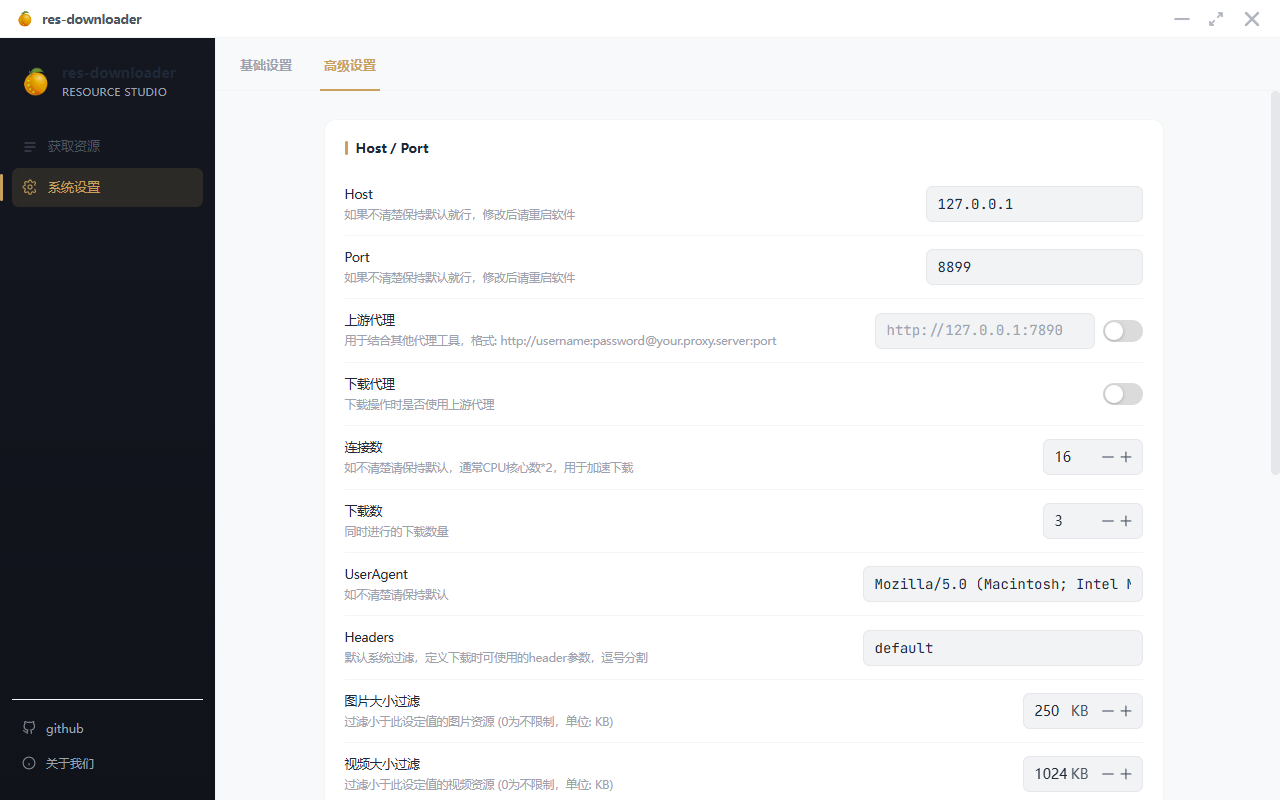
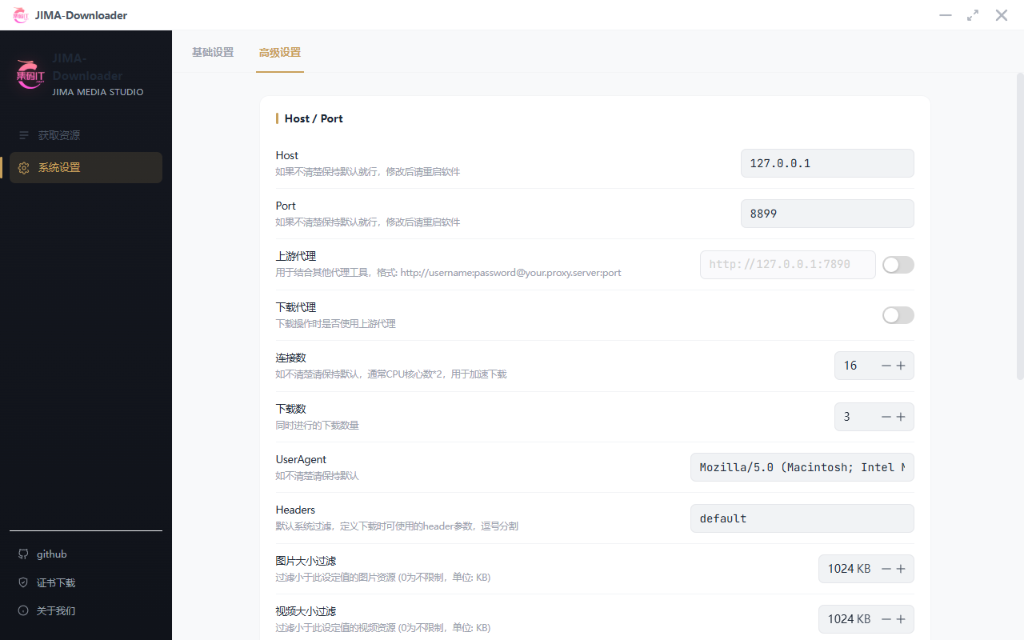
docs: 同步更新 JIMA-Downloader 文档说明与界面演示截图

diff --git a/README.md b/README.md
@@ -1,7 +1,7 @@
 <div align="center">
 
-<a href="https://github.com/icpjimait/res-downloader"><img src="docs/images/logo.png" width="120"/></a>
-<h1>res-downloader (Enhanced Edition)</h1>
+<a href="https://github.com/icpjimait/res-downloader"><img src="docs/images/logo.png" width="120" style="filter: drop-shadow(0 4px 12px rgba(255,83,118,0.3));"/></a>
+<h1>JIMA-Downloader (Enhanced Edition)</h1>
 <p>基于 Go + Wails + Vue 3 的高性能、现代化跨平台网络资源嗅探与下载神器</p>
 
 [![GitHub stars](https://img.shields.io/github/stars/icpjimait/res-downloader)](https://github.com/icpjimait/res-downloader/stargazers)
@@ -15,35 +15,44 @@
 ---
 
 > 💡 **特别说明（Enhanced Edition 二次开发版本）**  
-> 本项目基于原版开源项目 [putyy/res-downloader](https://github.com/putyy/res-downloader) 进行深度二次开发与功能增强。  
-> 在完整保留原版全部嗅探与下载能力的基础上，重点对用户体验、多平台打包和系统级交互进行了深度优化与魔改增强：
-> - 🚀 **多平台云端自动化构建**：接入 GitHub Actions CI/CD 流水线，一键自动编译发布 Windows、macOS (Universal M系列/Intel) 以及 Linux 安装包。
-> - 📌 **系统托盘后台运行**：点击窗口关闭按钮不退出，自动最小化缩至系统通知区域托盘，支持左键唤起与右键托盘快捷菜单。
-> - 🛡 **单实例防多开限制**：防止重复启动导致代理端口冲突，二次打开时自动唤起并置顶已有主窗口并友好提示。
+> 本项目由 **集码IT (JiMaIT)** 基于原版开源项目 [putyy/res-downloader](https://github.com/putyy/res-downloader) 进行深度二次开发与功能增强。  
+> 在完整保留原版全部嗅探与下载能力的基础上，重点对用户体验、嗅探生态、多平台打包和系统级交互进行了深度优化与魔改增强：
+> - ⚡ **快手 / B站 / 抖音 / 视频号全生态深度解析**：内置各平台专属插件，自动拦截 API 解析完整标题、作者、封面与音视频直链。
+> - 🔍 **顶部常驻全局即时搜索**：无需弹窗即可直接在操作栏进行描述、URL 及域名的实时模糊过滤。
+> - 🎛 **更多操作下拉菜单 UI**：批量操作采用跟手原生下拉菜单（`NDropdown`），告别臃肿弹窗。
+> - 🎥 **视频全屏沉浸播放与「直接下载」**：支持边看边直接发起下载，全屏模式支持自适应居中与等比缩放。
 > - 📂 **保存路径文件追踪定位**：在保存路径中点击“打开目录”时，直接在操作系统文件管理器中**自动打开并高亮选中**目标文件。
-> - 🔍 **音视频预览弹窗直接下载**：预览音视频时支持在模态框内一键直接发起下载，实时联动任务队列与已下载状态。
+> - 📌 **系统托盘后台运行**：点击窗口关闭按钮不退出，自动最小化缩至系统通知区域托盘，支持快捷唤起。
+> - 🛡 **单实例防多开限制**：防止重复启动导致代理端口冲突，二次打开时自动唤起并置顶已有主窗口。
+> - 🚀 **多平台云端自动化构建**：接入 GitHub Actions CI/CD 流水线，一键自动编译发布 Windows、macOS (Universal M系列/Intel) 以及 Linux 安装包。
 
 ---
 
 ## 🖼 界面预览
 
-### 1. 软件主界面与保存路径定位
-> 嗅探捕获多媒体资源列表，悬浮查看完整保存路径并支持一键在文件管理器中**定位高亮选中目标文件**：
+### 1. 软件主界面与常驻搜索 / 批量操作
+> 嗅探捕获多媒体资源列表，支持顶部常驻全局即时搜索、更多操作原生下拉菜单、以及保存路径文件管理器**自动定位高亮选中**：
 <div align="center">
-  <img src="docs/images/preview-list-path.png" width="90%" alt="主界面与路径追踪"/>
+  <img src="docs/images/preview-main.png" width="92%" alt="主界面与下拉菜单"/>
 </div>
 
 ### 2. 视频实时预览与「直接下载」
-> 预览音视频播放弹窗，右上角集成一键下载按钮，支持边预览边直接发起下载：
+> 预览音视频播放弹窗，右上角集成「直接下载」按钮，支持边预览边直接发起下载并实时联动任务状态：
 <div align="center">
-  <img src="docs/images/preview-video-download.png" width="90%" alt="视频预览与直接下载"/>
+  <img src="docs/images/preview-video-download.png" width="92%" alt="视频预览与直接下载"/>
 </div>
 
-### 3. 基础设置与高级配置
-> 支持保存目录配置、深浅主题切换、多语言切换、网络代理与并发连接数精细调优：
+### 3. 沉浸式居中全屏播放
+> 视频全屏模式支持自适应画面比例（`object-fit: contain`），水平垂直绝对居中，带来沉浸式观影与审核体验：
 <div align="center">
-  <img src="docs/images/preview-setting-basic.png" width="48%" alt="基础设置"/>
+  <img src="docs/images/preview-video-fullscreen.png" width="92%" alt="全屏沉浸播放"/>
+</div>
+
+### 4. 系统设置与域名高级规则
+> 支持保存目录配置、深浅主题切换、智能置灰禁用联动、网络代理与并发连接数精细调优：
+<div align="center">
   <img src="docs/images/preview-setting-advance.png" width="48%" alt="高级设置"/>
+  <img src="docs/images/preview-setting-rules.png" width="48%" alt="域名规则"/>
 </div>
 
 ---
@@ -54,8 +63,13 @@
 - 🖥 **全平台支持**：全面支持 **Windows / macOS (Apple Silicon & Intel) / Linux**。
 - 📦 **多平台自动构建**：集成 GitHub Actions 云端流水线，多系统安装包自动化编译与发布。
 - 🌐 **全类型资源嗅探**：支持视频、音频、图片、m3u8 分片、直播流等多种格式自动捕获。
-- 📱 **广泛平台兼容**：支持微信视频号（含自动解密）、小程序、抖音、快手、小红书、酷狗、QQ音乐等主流平台。
-- 🔍 **智能预览与直接下载**：支持音视频实时预览，预览弹窗内支持一键直接发起下载并实时联动进度。
+- 📱 **广泛平台兼容**：
+  - **快手（Kuaishou）**：GraphQL / REST API 递归解析，自动获取完整视频标题描述、作者与封面。
+  - **哔哩哔哩（B站）**：视频/音频/清晰度识别、音画双轨同频有声预览、FFmpeg 自动混流。
+  - **抖音（Douyin）**：自动提取高画质无水印直链与视频描述。
+  - **微信视频号**：自动拦截解密密钥，一键视频解密。
+  - **小红书、QQ音乐、酷狗** 等主流平台全面支持。
+- 🔍 **全局即时搜索**：常驻顶部输入框，毫秒级即时模糊搜索。
 - 📂 **保存路径文件追踪**：点击保存目录按钮，直接在系统资源管理器中**自动打开并高亮选中目标文件**。
 - 🛡 **单实例运行限制**：避免多开造成端口冲突，重复打开时**自动唤起置顶已有主窗口并友好提示**。
 - 📌 **系统托盘后台运行**：点击关闭按钮可最小化至右下角通知区域托盘，支持左键唤起与右键托盘菜单。
@@ -71,9 +85,9 @@
 
 | 操作系统 | 推荐下载文件 | 说明 |
 | :--- | :--- | :--- |
-| **Windows** | `res-downloader-windows-amd64.zip` | 解压后双击 `res-downloader.exe` 即可使用 |
-| **macOS** | `res-downloader-macos-universal.zip` | 通用版本，兼容 M系列芯片 (M1/M2/M3) 及 Intel 芯片 |
-| **Linux** | `res-downloader-linux-amd64.tar.gz` | Linux 64位二进制包 |
+| **Windows** | `JIMA-Downloader-windows-amd64.zip` | 解压后双击 `JIMA-Downloader.exe` 即可使用 |
+| **macOS** | `JIMA-Downloader-macos-universal.zip` | 通用版本，兼容 M系列芯片 (M1/M2/M3/M4) 及 Intel 芯片 |
+| **Linux** | `JIMA-Downloader-linux-amd64.tar.gz` | Linux 64位二进制包 |
 
 ---
 
@@ -109,9 +123,10 @@ wails build -platform darwin/universal
 
 ## 🤝 参与贡献与致谢
 
-欢迎提交 Issue 和 Pull Request！提交 PR 前请阅读 [CONTRIBUTING.md](CONTRIBUTING.md)。
+欢迎提交 Issue 和 Pull Request！
 
 * 原版项目：[putyy/res-downloader](https://github.com/putyy/res-downloader)
+* 二次开发维护：[集码IT (JiMaIT)](https://github.com/icpjimait)
 * 感谢原作者与所有开源社区贡献者的辛勤付出。
 
 ---

diff --git a/docs/readme.md b/docs/readme.md
@@ -1,7 +1,7 @@
 <div align="center">
 
-<a href="https://github.com/icpjimait/res-downloader"><img src="images/logo.png" width="120"/></a>
-<h1>res-downloader (Enhanced Edition)</h1>
+<a href="https://github.com/icpjimait/res-downloader"><img src="images/logo.png" width="120" style="filter: drop-shadow(0 4px 12px rgba(255,83,118,0.3));"/></a>
+<h1>JIMA-Downloader (Enhanced Edition)</h1>
 <p>基于 Go + Wails + Vue 3 的高性能、现代化跨平台网络资源嗅探与下载神器</p>
 
 [![GitHub stars](https://img.shields.io/github/stars/icpjimait/res-downloader)](https://github.com/icpjimait/res-downloader/stargazers)
@@ -15,35 +15,44 @@
 ---
 
 > 💡 **特别说明（Enhanced Edition 二次开发版本）**  
-> 本项目基于原版开源项目 [putyy/res-downloader](https://github.com/putyy/res-downloader) 进行深度二次开发与功能增强。  
-> 在完整保留原版全部嗅探与下载能力的基础上，重点对用户体验、多平台打包和系统级交互进行了深度优化与魔改增强：
-> - 🚀 **多平台云端自动化构建**：接入 GitHub Actions CI/CD 流水线，一键自动编译发布 Windows、macOS (Universal M系列/Intel) 以及 Linux 安装包。
-> - 📌 **系统托盘后台运行**：点击窗口关闭按钮不退出，自动最小化缩至系统通知区域托盘，支持左键唤起与右键托盘快捷菜单。
-> - 🛡 **单实例防多开限制**：防止重复启动导致代理端口冲突，二次打开时自动唤起并置顶已有主窗口并友好提示。
+> 本项目由 **集码IT (JiMaIT)** 基于原版开源项目 [putyy/res-downloader](https://github.com/putyy/res-downloader) 进行深度二次开发与功能增强。  
+> 在完整保留原版全部嗅探与下载能力的基础上，重点对用户体验、嗅探生态、多平台打包和系统级交互进行了深度优化与魔改增强：
+> - ⚡ **快手 / B站 / 抖音 / 视频号全生态深度解析**：内置各平台专属插件，自动拦截 API 解析完整标题、作者、封面与音视频直链。
+> - 🔍 **顶部常驻全局即时搜索**：无需弹窗即可直接在操作栏进行描述、URL 及域名的实时模糊过滤。
+> - 🎛 **更多操作下拉菜单 UI**：批量操作采用跟手原生下拉菜单（`NDropdown`），告别臃肿弹窗。
+> - 🎥 **视频全屏沉浸播放与「直接下载」**：支持边看边直接发起下载，全屏模式支持自适应居中与等比缩放。
 > - 📂 **保存路径文件追踪定位**：在保存路径中点击“打开目录”时，直接在操作系统文件管理器中**自动打开并高亮选中**目标文件。
-> - 🔍 **音视频预览弹窗直接下载**：预览音视频时支持在模态框内一键直接发起下载，实时联动任务队列与已下载状态。
+> - 📌 **系统托盘后台运行**：点击窗口关闭按钮不退出，自动最小化缩至系统通知区域托盘，支持快捷唤起。
+> - 🛡 **单实例防多开限制**：防止重复启动导致代理端口冲突，二次打开时自动唤起并置顶已有主窗口。
+> - 🚀 **多平台云端自动化构建**：接入 GitHub Actions CI/CD 流水线，一键自动编译发布 Windows、macOS (Universal M系列/Intel) 以及 Linux 安装包。
 
 ---
 
 ## 🖼 界面预览
 
-### 1. 软件主界面与保存路径定位
-> 嗅探捕获多媒体资源列表，悬浮查看完整保存路径并支持一键在文件管理器中**定位高亮选中目标文件**：
+### 1. 软件主界面与常驻搜索 / 批量操作
+> 嗅探捕获多媒体资源列表，支持顶部常驻全局即时搜索、更多操作原生下拉菜单、以及保存路径文件管理器**自动定位高亮选中**：
 <div align="center">
-  <img src="images/preview-list-path.png" width="90%" alt="主界面与路径追踪"/>
+  <img src="images/preview-main.png" width="92%" alt="主界面与下拉菜单"/>
 </div>
 
 ### 2. 视频实时预览与「直接下载」
-> 预览音视频播放弹窗，右上角集成一键下载按钮，支持边预览边直接发起下载：
+> 预览音视频播放弹窗，右上角集成「直接下载」按钮，支持边预览边直接发起下载并实时联动任务状态：
 <div align="center">
-  <img src="images/preview-video-download.png" width="90%" alt="视频预览与直接下载"/>
+  <img src="images/preview-video-download.png" width="92%" alt="视频预览与直接下载"/>
 </div>
 
-### 3. 基础设置与高级配置
-> 支持保存目录配置、深浅主题切换、多语言切换、网络代理与并发连接数精细调优：
+### 3. 沉浸式居中全屏播放
+> 视频全屏模式支持自适应画面比例（`object-fit: contain`），水平垂直绝对居中，带来沉浸式观影与审核体验：
 <div align="center">
-  <img src="images/preview-setting-basic.png" width="48%" alt="基础设置"/>
+  <img src="images/preview-video-fullscreen.png" width="92%" alt="全屏沉浸播放"/>
+</div>
+
+### 4. 系统设置与域名高级规则
+> 支持保存目录配置、深浅主题切换、智能置灰禁用联动、网络代理与并发连接数精细调优：
+<div align="center">
   <img src="images/preview-setting-advance.png" width="48%" alt="高级设置"/>
+  <img src="images/preview-setting-rules.png" width="48%" alt="域名规则"/>
 </div>
 
 ---
@@ -54,8 +63,13 @@
 - 🖥 **全平台支持**：全面支持 **Windows / macOS (Apple Silicon & Intel) / Linux**。
 - 📦 **多平台自动构建**：集成 GitHub Actions 云端流水线，多系统安装包自动化编译与发布。
 - 🌐 **全类型资源嗅探**：支持视频、音频、图片、m3u8 分片、直播流等多种格式自动捕获。
-- 📱 **广泛平台兼容**：支持微信视频号（含自动解密）、小程序、抖音、快手、小红书、酷狗、QQ音乐等主流平台。
-- 🔍 **智能预览与直接下载**：支持音视频实时预览，预览弹窗内支持一键直接发起下载并实时联动进度。
+- 📱 **广泛平台兼容**：
+  - **快手（Kuaishou）**：GraphQL / REST API 递归解析，自动获取完整视频标题描述、作者与封面。
+  - **哔哩哔哩（B站）**：视频/音频/清晰度识别、音画双轨同频有声预览、FFmpeg 自动混流。
+  - **抖音（Douyin）**：自动提取高画质无水印直链与视频描述。
+  - **微信视频号**：自动拦截解密密钥，一键视频解密。
+  - **小红书、QQ音乐、酷狗** 等主流平台全面支持。
+- 🔍 **全局即时搜索**：常驻顶部输入框，毫秒级即时模糊搜索。
 - 📂 **保存路径文件追踪**：点击保存目录按钮，直接在系统资源管理器中**自动打开并高亮选中目标文件**。
 - 🛡 **单实例运行限制**：避免多开造成端口冲突，重复打开时**自动唤起置顶已有主窗口并友好提示**。
 - 📌 **系统托盘后台运行**：点击关闭按钮可最小化至右下角通知区域托盘，支持左键唤起与右键托盘菜单。
@@ -71,9 +85,9 @@
 
 | 操作系统 | 推荐下载文件 | 说明 |
 | :--- | :--- | :--- |
-| **Windows** | `res-downloader-windows-amd64.zip` | 解压后双击 `res-downloader.exe` 即可使用 |
-| **macOS** | `res-downloader-macos-universal.zip` | 通用版本，兼容 M系列芯片 (M1/M2/M3) 及 Intel 芯片 |
-| **Linux** | `res-downloader-linux-amd64.tar.gz` | Linux 64位二进制包 |
+| **Windows** | `JIMA-Downloader-windows-amd64.zip` | 解压后双击 `JIMA-Downloader.exe` 即可使用 |
+| **macOS** | `JIMA-Downloader-macos-universal.zip` | 通用版本，兼容 M系列芯片 (M1/M2/M3/M4) 及 Intel 芯片 |
+| **Linux** | `JIMA-Downloader-linux-amd64.tar.gz` | Linux 64位二进制包 |
 
 ---
 
@@ -109,9 +123,10 @@ wails build -platform darwin/universal
 
 ## 🤝 参与贡献与致谢
 
-欢迎提交 Issue 和 Pull Request！提交 PR 前请阅读 [CONTRIBUTING.md](../CONTRIBUTING.md)。
+欢迎提交 Issue 和 Pull Request！
 
 * 原版项目：[putyy/res-downloader](https://github.com/putyy/res-downloader)
+* 二次开发维护：[集码IT (JiMaIT)](https://github.com/icpjimait)
 * 感谢原作者与所有开源社区贡献者的辛勤付出。
 
 ---

diff --git a/docs/more.md b/docs/more.md
@@ -1,36 +1,42 @@
-## 1. 系统托盘与后台运行
-- 点击窗口右上角的关闭按钮 `X`，程序将保持嗅探与下载任务继续运行，并**自动最小化至右下角系统托盘**。
-- **左键单击 / 双击托盘图标**：随时恢复并置顶主界面。
-- **右键托盘图标**：弹出菜单，支持快速「显示主窗口」或彻底「退出程序」。
+## 1. 全局实时搜索与类型筛选
+- **常驻全局搜索**：顶部操作栏常驻即时搜索输入框，输入关键字实时对“描述”、“URL 链接”和“域名”进行毫秒级模糊匹配。
+- **类型快速筛选**：点击顶部类型标签快速筛选视频、音频、图片、m3u8、直播流等分类。
+- **清空列表**：支持一键清空列表或记住选择。  
+![](images/preview-main.png ':size=80%')
 
 ---
 
-## 2. 单实例运行保护
-- 软件内置了多实例互斥保护机制，彻底避免因多开导致的本地代理端口冲突。
-- 当软件已在运行（包括隐藏在托盘时），再次双击运行程序会自动**唤醒并置顶已有窗口**，并提示“程序已在运行中”。
+## 2. 批量操作下拉菜单
+- 顶部“批量下载”右侧设有跟手下拉菜单（`NDropdown`），支持：
+  - **取消下载**：批量取消选中的下载任务
+  - **批量导出**：导出所选资源的数据 JSON
+  - **批量导入**：支持导入外部数据继续下载
+  - **导出链接**：一键提取并导出选中的 URL 列表
 
 ---
 
-## 3. 类型筛选与清空列表
-- 当资源列表过多时，可以通过顶部类型标签快速筛选视频、音频、图片、直播流等。
-- 支持一键清空列表，以便针对特定页面进行定向抓取。  
-![more-1.png](images/more-1.png ':size=30%')
+## 3. 视频预览、直接下载与全屏播放
+- 点击列表中任一视频资源旁边的「▶ 预览」按钮即可弹出播放模态框。
+- **边看边下**：预览弹窗右上角提供「直接下载」按钮，无需关闭弹窗即可直接加入下载队列。
+- **居中全屏**：支持进入全屏沉浸播放，画面按比例自适应居中（`object-fit: contain`），无变形失真。  
+![](images/preview-video-download.png ':size=70%')  
+![](images/preview-video-fullscreen.png ':size=70%')
 
 ---
 
-## 4. 批量下载与批量导入导出
-- 勾选多条资源后可使用底部批量操作栏进行批量下载、批量取消或批量导出。  
-![more-2.png](images/more-2.png ':size=30%')
+## 4. 系统托盘与单实例保护
+- **系统托盘后台运行**：点击窗口右上角 `X` 关闭按钮，程序自动最小化至右下角系统托盘，继续保持嗅探与下载任务。
+- **单实例运行保护**：避免重复多开导致本地端口冲突，二次打开时自动**唤醒并置顶已有主窗口**。
 
 ---
 
 ## 5. 微信视频号解密
-- 对于部分加密格式的视频号资源，在嗅探到密钥后，可点击“视频解密”按钮自动调用解密算法生成可正常播放的 MP4 文件。  
-![more-3.png](images/more-3.png ':size=30%')
+- 对于部分加密格式的视频号资源，在嗅探到密钥后，可点击“视频解密”按钮自动调用解密算法生成可正常播放的 MP4 文件。
 
 ---
 
-## 6. 系统设置说明
-!> 修改配置后记得点击保存，部分底层配置重启后生效。  
-![](images/preview-setting-basic.png ':size=60%')  
-![](images/preview-setting-advance.png ':size=60%')
+## 6. 系统设置与域名高级规则
+- 支持自定义下载目录、深浅主题切换、多语言切换。
+- 支持上游代理配置（开关联动智能置灰）、并发连接与任务数调优、以及域名规则灵活定义。  
+![](images/preview-setting-advance.png ':size=48%')  
+![](images/preview-setting-rules.png ':size=48%')

diff --git a/docs/getting-started.md b/docs/getting-started.md
@@ -5,9 +5,9 @@
 
 | 系统 | 安装包文件 | 说明 |
 | :--- | :--- | :--- |
-| **Windows** | `res-downloader-windows-amd64.zip` | 解压即用（免安装） |
-| **macOS** | `res-downloader-macos-universal.zip` | 通用版本（支持 M1/M2/M3 及 Intel） |
-| **Linux** | `res-downloader-linux-amd64.tar.gz` | Linux 64位二进制包 |
+| **Windows** | `JIMA-Downloader-windows-amd64.zip` | 解压即用（免安装） |
+| **macOS** | `JIMA-Downloader-macos-universal.zip` | 通用版本（支持 M1/M2/M3/M4 及 Intel） |
+| **Linux** | `JIMA-Downloader-linux-amd64.tar.gz` | Linux 64位二进制包 |
 
 ---
 
@@ -18,10 +18,10 @@
 2. **开启抓取**：
    - 打开软件后，点击左上角“开启抓取”。
 3. **嗅探资源**：
-   - 打开要捕获的资源来源，如：微信视频号、网页、小程序、短视频平台等。
+   - 打开要捕获的资源来源，如：微信视频号、网页、小程序、快手、抖音、B站、短视频平台等。
 4. **下载与管理**：
-   - 软件首页列表中会自动显示捕获到的资源。
-   - 可直接点击“下载”或在“预览”窗口中边看边下。
+   - 软件首页列表中会自动显示捕获到的资源及完整标题描述。
+   - 可直接点击“下载”或在“预览”窗口中边看边下，支持全屏沉浸播放。
    - 下载完成后，点击保存路径旁的文件夹图标，可直接**打开所在目录并自动高亮选中该文件**。
 
 ---
@@ -29,4 +29,4 @@
 !> **Windows 注意事项**：若安全软件拦截，请点击允许；点击右上角关闭按钮默认缩小至**右下角托盘**。  
 !> **macOS 注意事项**：如果无法正常拦截，请在系统设置中检查并允许网络代理与防火墙权限。
 
-![](images/preview-list-path.png ':size=70%')
+![](images/preview-main.png ':size=90%')

diff --git a/docs/installation.md b/docs/installation.md
@@ -6,9 +6,9 @@
 ---
 
 ## 🪟 Windows 安装与运行
-1. 下载 `res-downloader-windows-amd64.zip`。
+1. 下载 `JIMA-Downloader-windows-amd64.zip`。
 2. 解压压缩包到任意目录。
-3. 双击 `res-downloader.exe` 即可直接运行。
+3. 双击 `JIMA-Downloader.exe` 即可直接运行。
 4. **提示**：
    - 首次运行建议右键选择“以管理员身份运行”以确保证书正确配置。
    - 点击窗口右上角关闭按钮时，软件将保持后台运行并**最小化至右下角系统托盘**。
@@ -17,22 +17,22 @@
 ---
 
 ## 🍎 macOS 安装与运行
-1. 下载 `res-downloader-macos-universal.zip`（通用包，原生支持 Apple Silicon M1/M2/M3 及 Intel 芯片）。
-2. 解压后将 `res-downloader.app` 拖入 `Applications`（应用程序）文件夹即可。
+1. 下载 `JIMA-Downloader-macos-universal.zip`（通用包，原生支持 Apple Silicon M1/M2/M3/M4 及 Intel 芯片）。
+2. 解压后将 `JIMA-Downloader.app` 拖入 `Applications`（应用程序）文件夹即可。
 3. **如提示“已损坏”或“无法验证开发者”**：
    - 打开 Mac 终端执行：
    ```bash
-   sudo xattr -d com.apple.quarantine /Applications/res-downloader.app
+   sudo xattr -d com.apple.quarantine /Applications/JIMA-Downloader.app
    ```
 
 ---
 
 ## 🐧 Linux 安装与运行
-1. 下载 `res-downloader-linux-amd64.tar.gz`。
+1. 下载 `JIMA-Downloader-linux-amd64.tar.gz`。
 2. 解压并赋予执行权限：
    ```bash
-   tar -zxvf res-downloader-linux-amd64.tar.gz
-   chmod +x ./res-downloader
-   ./res-downloader
+   tar -zxvf JIMA-Downloader-linux-amd64.tar.gz
+   chmod +x ./JIMA-Downloader
+   ./JIMA-Downloader
    ```
 3. **依赖要求**：系统需安装 `libgtk-3` 及 `webkit2gtk`（Ubuntu/Debian 用户可通过 `sudo apt install libgtk-3-0 libwebkit2gtk-4.0-37` 安装）。

diff --git a/docs/_coverpage.md b/docs/_coverpage.md
@@ -1,12 +1,12 @@
 <div align="center">
-<a href="https://github.com/icpjimait/res-downloader"><img src="images/logo.png" width="120"/></a>
-<h1><strong>res-downloader</strong></h1>
+<a href="https://github.com/icpjimait/res-downloader"><img src="images/logo.png" width="120" style="filter: drop-shadow(0 4px 12px rgba(255,83,118,0.3));"/></a>
+<h1><strong>JIMA-Downloader</strong></h1>
 <p>Enhanced Edition 增强版</p>
 </div>
 
-> 高颜值、高性能、多平台自动化构建与系统级交互增强的资源下载神器
+> 高颜值、高性能、多平台自动化构建与系统级交互增强的资源嗅探下载神器
 
-### 极速嗅探 · 后台托盘 · 单实例防多开 · 路径追踪 · 预览下载
+### 极速嗅探 · 全生态支持 · 后台托盘 · 单实例防多开 · 路径追踪 · 全屏预览
 
 [开始使用 Let's Go](/readme.md)
 [立即下载](/getting-started.md)
